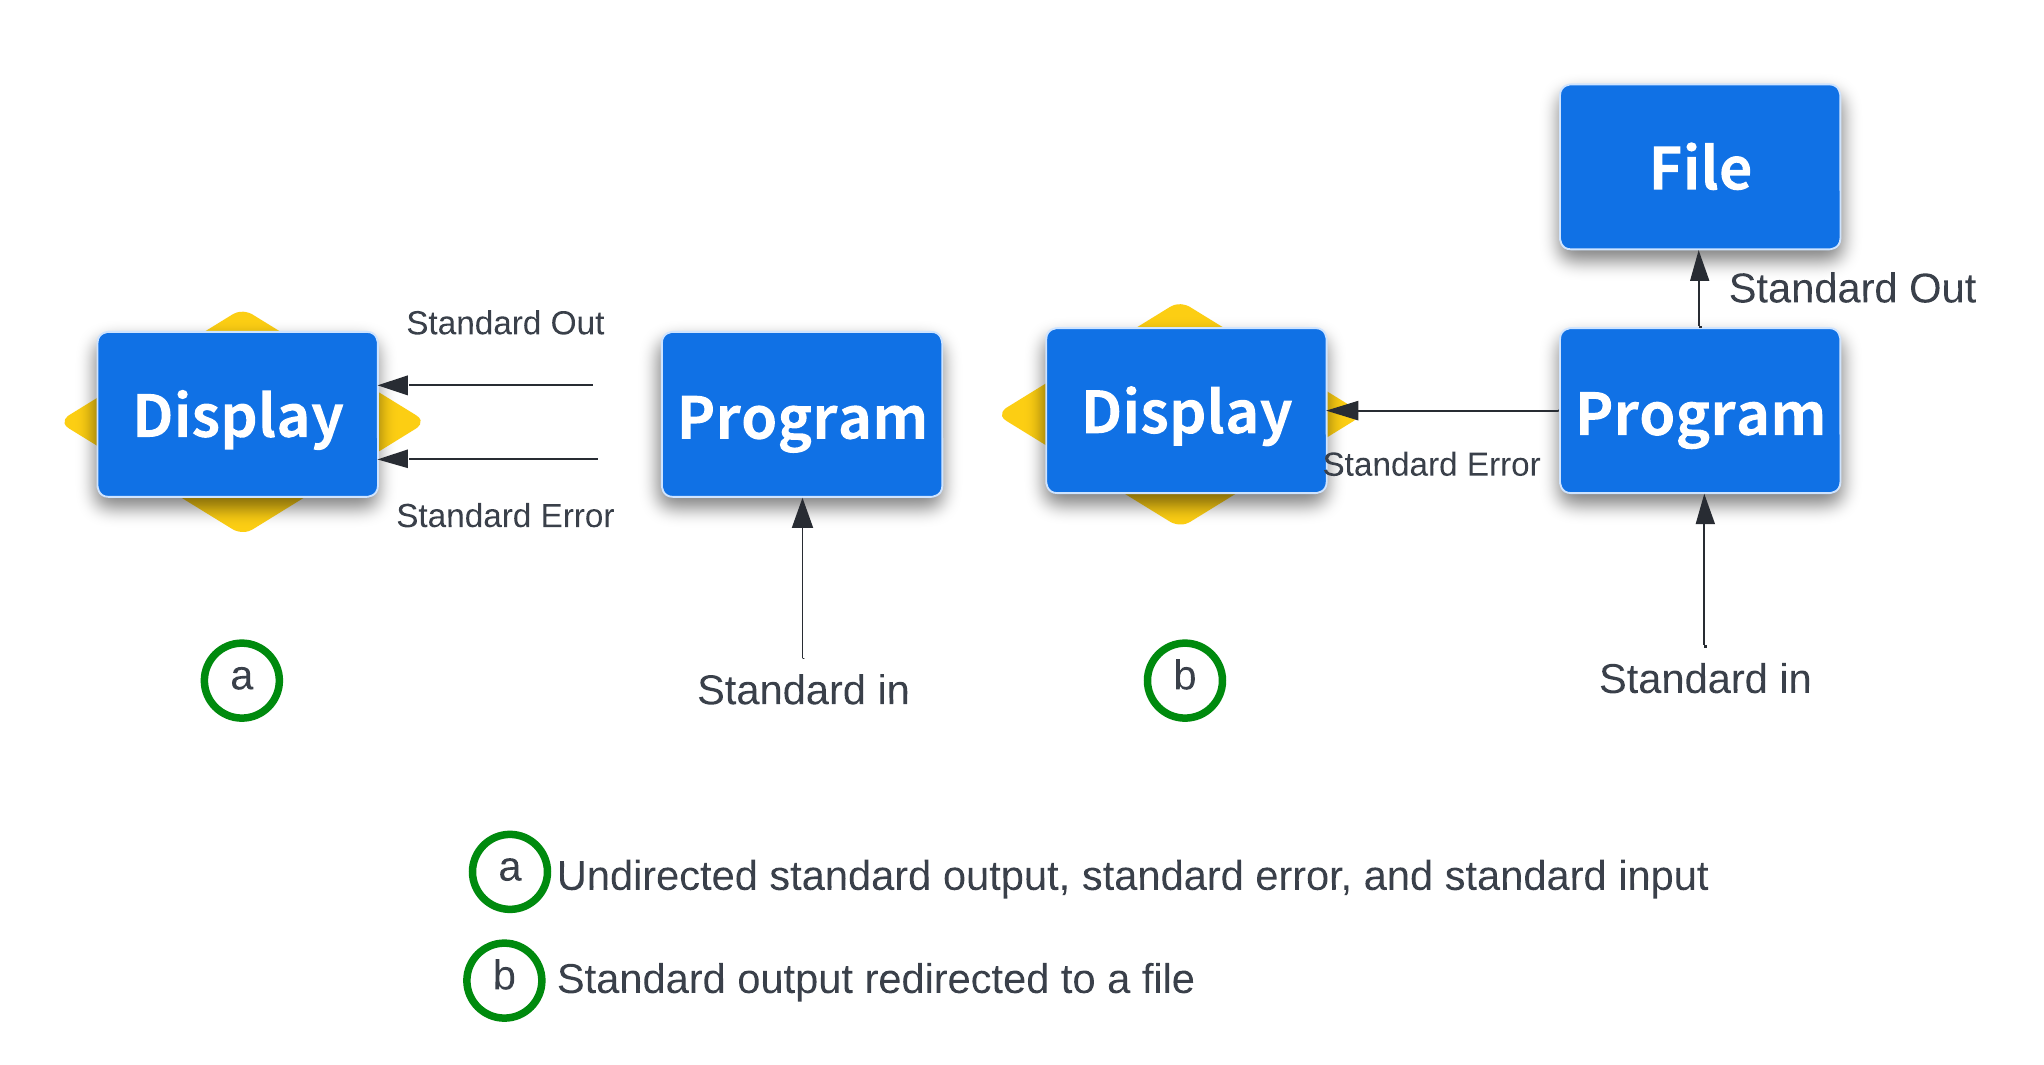
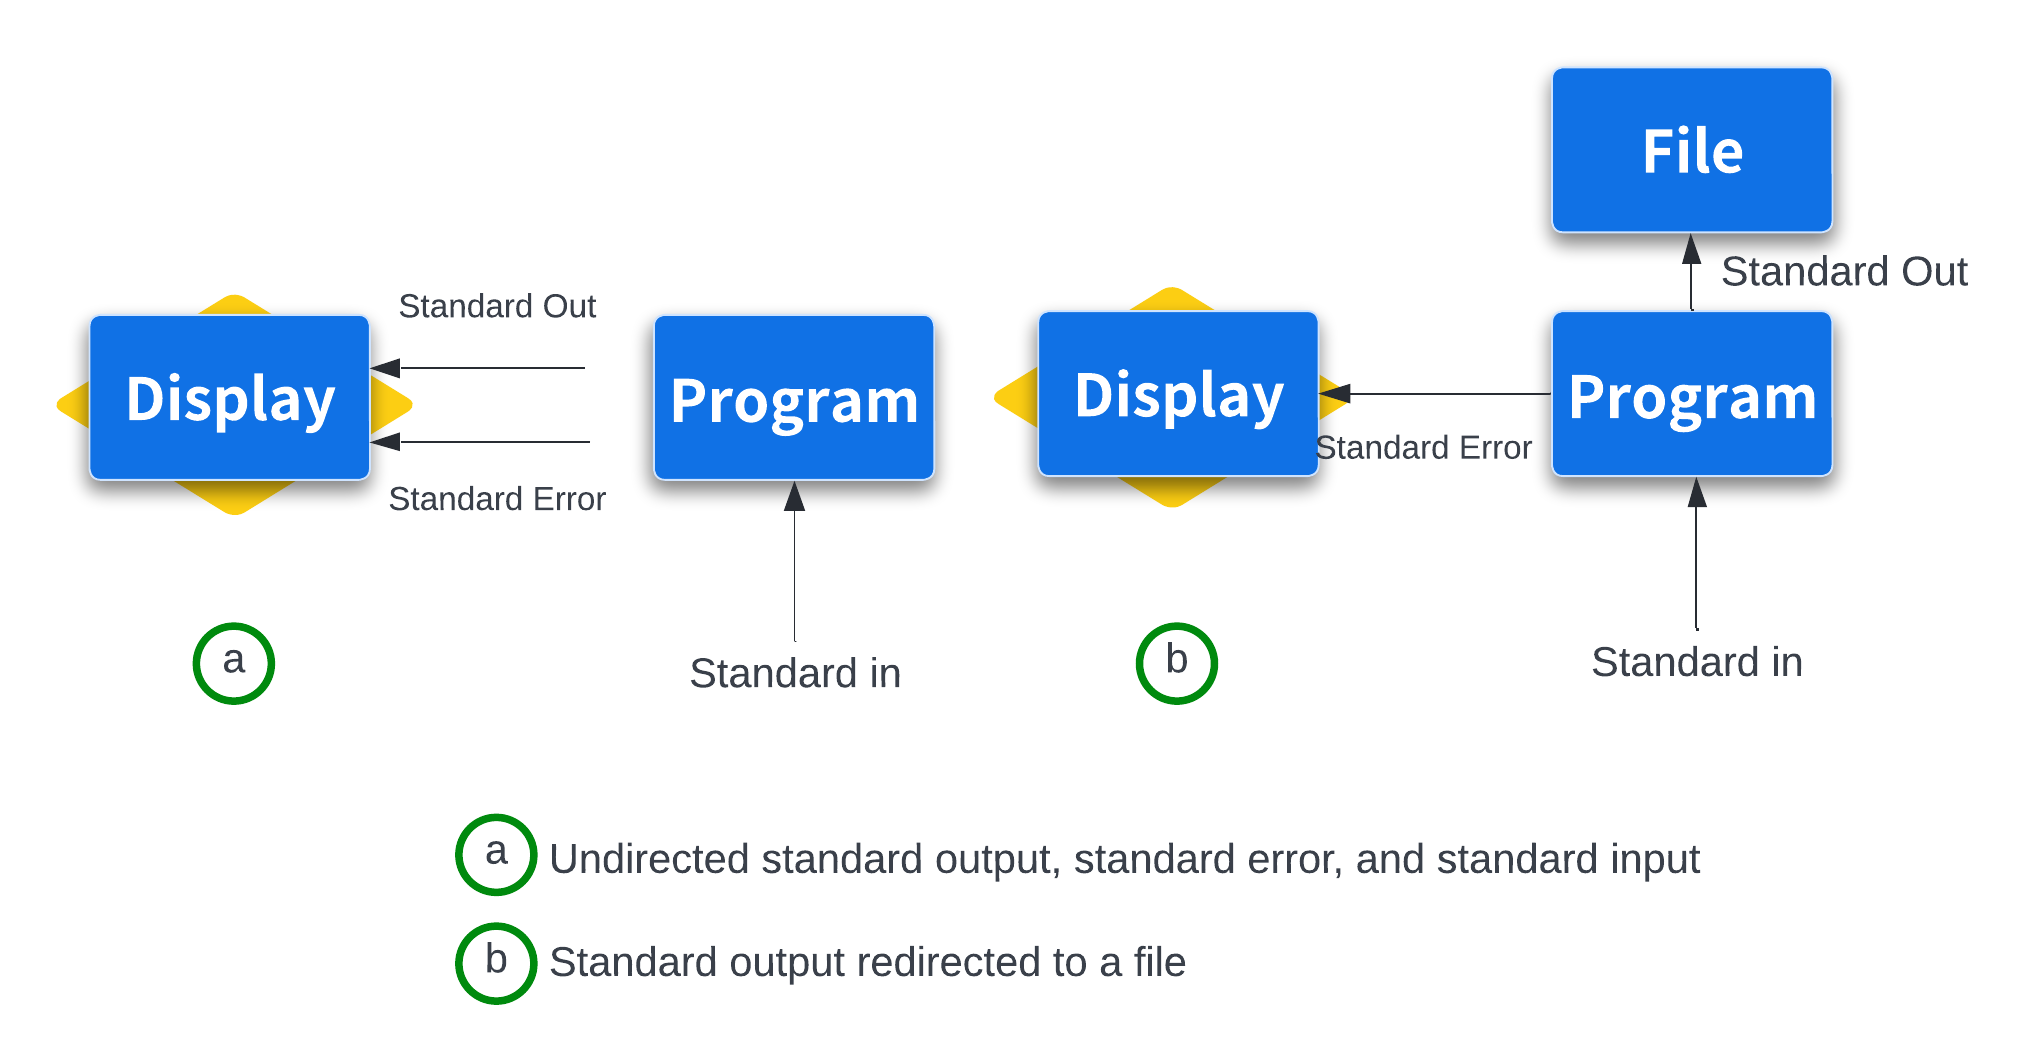
add output image

diff --git a/docs/3_streams_red_pipe.md b/docs/3_streams_red_pipe.md
@@ -8,7 +8,11 @@
 Bioinformatics data is often text-based and large. This is why Unix’s philosophy of handling text streams is useful in bioinformatics: text streams allow us to do processing on a stream of data rather than holding it all in memory. Handling and redirecting the streams of data is essential skill in Unix.
 
 
-By default, both standard error and standard output of most unix programs go to your terminal screen. We can change this behavior (redirect the streams to a file) by using `>` or `>>` operators. The operator `>` redirects standard output to a file and overwrites any existing contents of the file, whereas `>>` appends to the file. If there isn’t an existing file, both operators will create it before redirecting output to it. For example, to concatenate two FASTA files, we use cat command, but redirect the output to a file:
+By default, both standard error and standard output of most unix programs go to your terminal screen. We can change this behavior (redirect the streams to a file) by using `>` or `>>` operators. The operator `>` redirects standard output to a file and overwrites any existing contents of the file, whereas `>>` appends to the file. If there isn’t an existing file, both operators will create it before redirecting output to it. For example, to concatenate two FASTA files, we use `cat` command, but redirect the output to a file:
+
+<center>
+![image](./images/redirection_st.png){width="500"}
+</center>
 
 ### Output redirection
 
